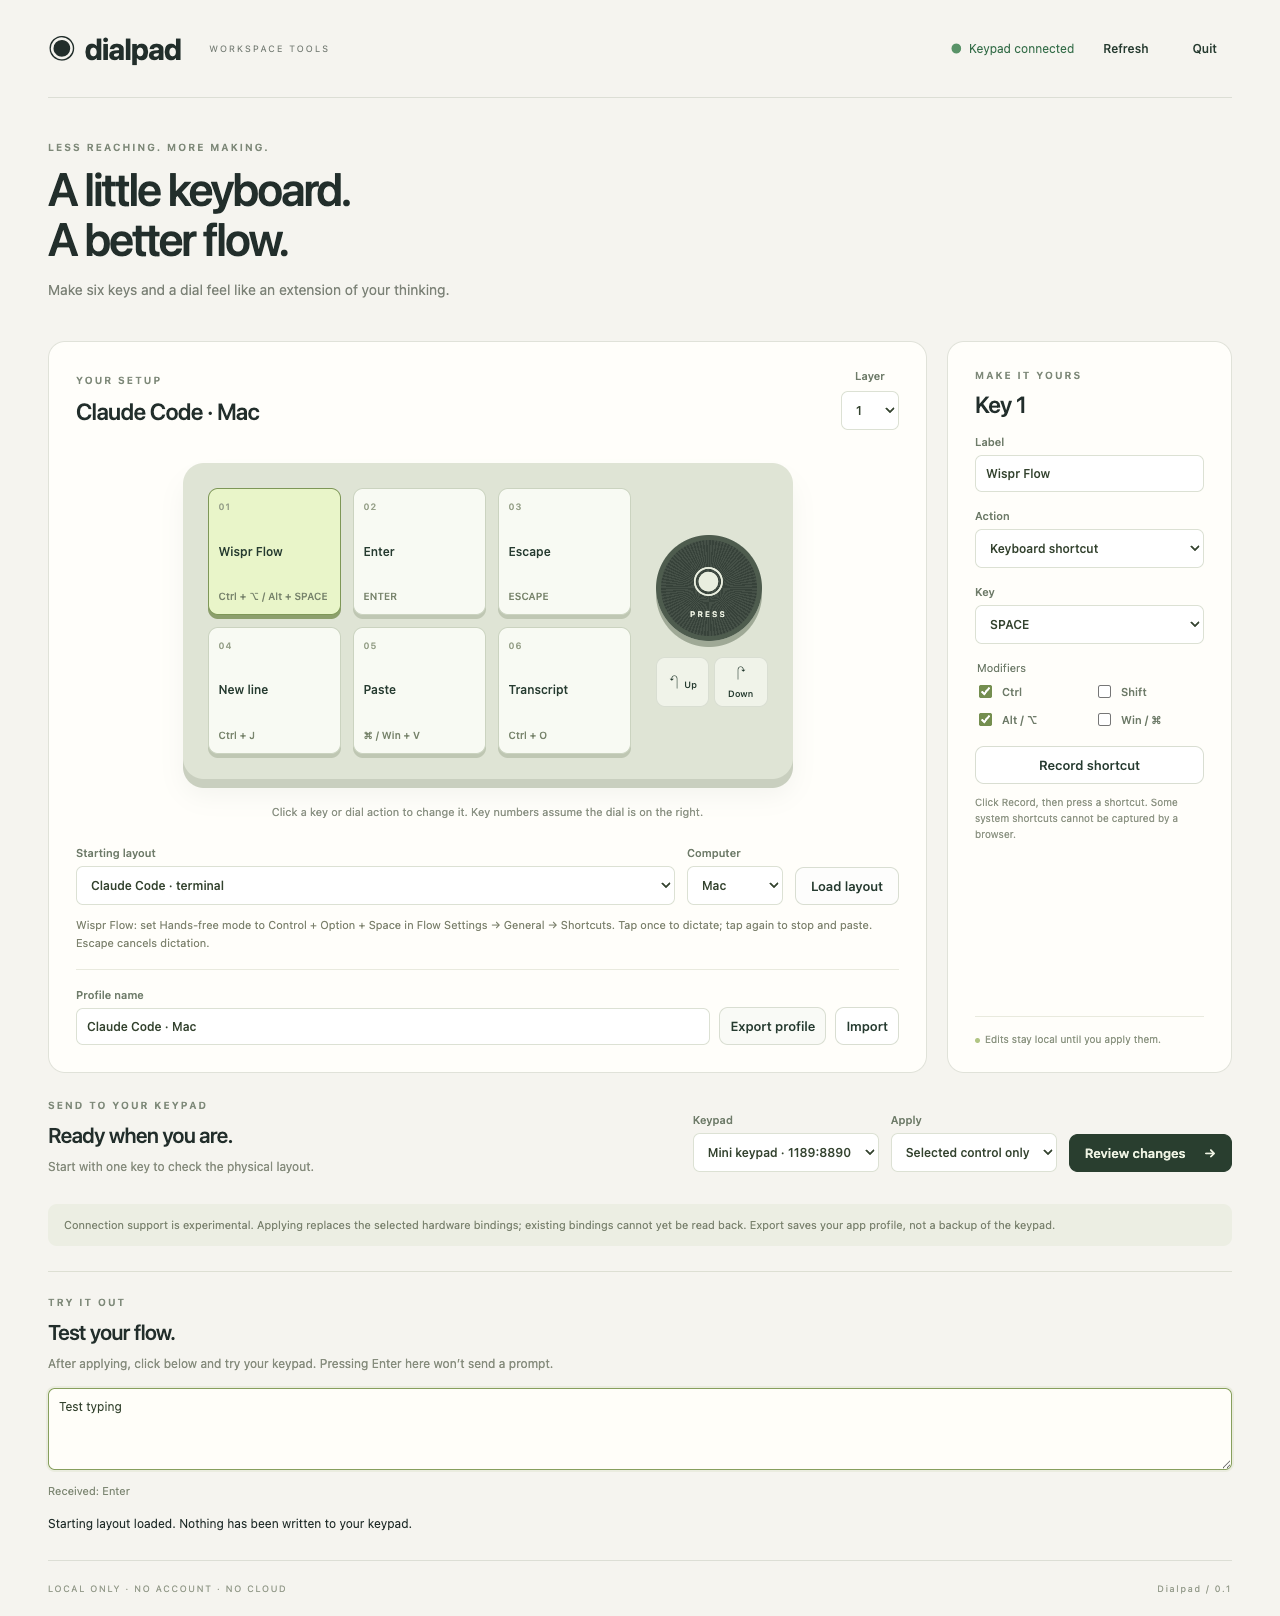
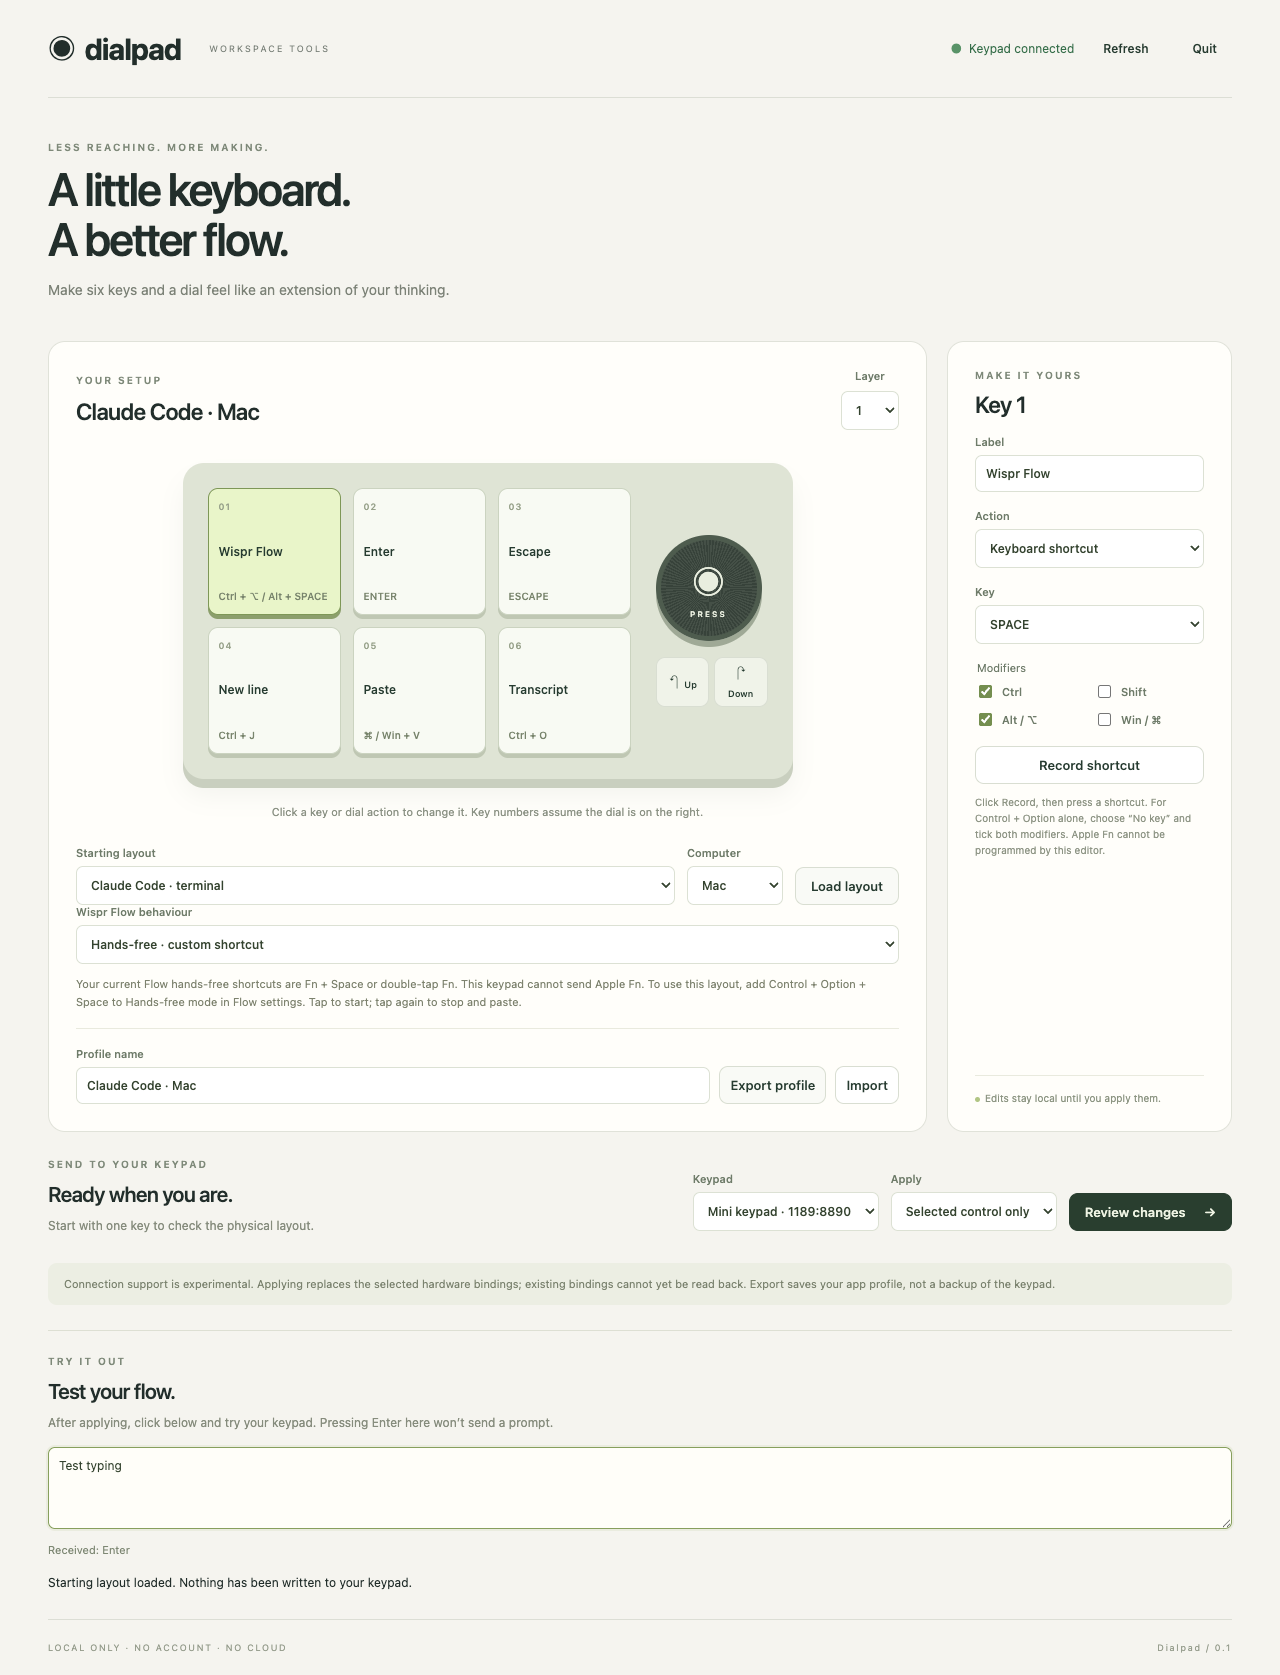
Support modifier-only Wispr push-to-talk and clarify Fn shortcuts

diff --git a/ui/app.js b/ui/app.js
@@ -7,25 +7,32 @@ const controls = ['key1','key2','key3','key4','key5','key6','dial_ccw','dial_pre
 const shortcut = (key, modifiers=[]) => ({type:'shortcut',key,modifiers});
 const names = {key1:'Key 1',key2:'Key 2',key3:'Key 3',key4:'Key 4',key5:'Key 5',key6:'Key 6',dial_ccw:'Dial · turn left',dial_press:'Dial · press',dial_cw:'Dial · turn right'};
 let selected='key1', profile, devices=[], preview=null, recording=false, busy=false, revision=0;
-const keyNames = [...'ABCDEFGHIJKLMNOPQRSTUVWXYZ',...'1234567890', 'ENTER','ESCAPE','TAB','SPACE','BACKSPACE','DELETE','UP','DOWN','LEFT','RIGHT','HOME','END','PAGEUP','PAGEDOWN','MINUS','EQUAL','LEFTBRACKET','RIGHTBRACKET','BACKSLASH','SEMICOLON','QUOTE','GRAVE','COMMA','DOT','SLASH',...Array.from({length:24},(_,i)=>`F${i+1}`)];
+const keyNames = ['NONE',...'ABCDEFGHIJKLMNOPQRSTUVWXYZ',...'1234567890', 'ENTER','ESCAPE','TAB','SPACE','BACKSPACE','DELETE','UP','DOWN','LEFT','RIGHT','HOME','END','PAGEUP','PAGEDOWN','MINUS','EQUAL','LEFTBRACKET','RIGHTBRACKET','BACKSLASH','SEMICOLON','QUOTE','GRAVE','COMMA','DOT','SLASH',...Array.from({length:24},(_,i)=>`F${i+1}`)];
 const actions = {mouse:['wheel_up','wheel_down','middle_click','left_click','right_click'],media:['volume_up','volume_down','mute','play_pause','next','previous','stop','brightness_up','brightness_down']};
 function option(value, text=value){return new Option(text,value);}
-keyNames.forEach(k=>$('key').add(option(k)));
+keyNames.forEach(k=>$('key').add(option(k,k==='NONE'?'No key · modifiers only':k)));
 function message(text,error=false){$('message').textContent=text;$('message').className=error?'error':'';}
 async function api(path,body){
  const response=await fetch('/api/'+path,{method:body?'POST':'GET',headers:{Authorization:'Bearer '+token,...(body?{'Content-Type':'application/json'}:{})},...(body?{body:JSON.stringify(body)}:{})});
  const result=await response.json();if(!response.ok)throw new Error(result.error||'Request failed.');return result;
 }
-function describe(action){if(action.type==='shortcut')return [...action.modifiers.map(m=>({cmd:'⌘ / Win',alt:'⌥ / Alt',ctrl:'Ctrl',shift:'Shift'}[m]||m)),action.key].join(' + ');return (action.action||action.type).replaceAll('_',' ');}
+function describe(action){if(action.type==='shortcut')return [...action.modifiers.map(m=>({cmd:'⌘ / Win',alt:'⌥ / Alt',ctrl:'Ctrl',shift:'Shift'}[m]||m)),...(action.key==='NONE'?[]:[action.key])].join(' + ');return (action.action||action.type).replaceAll('_',' ');}
 function preset(){
  const mac=$('platform').value==='mac',kind=$('preset').value;
  const labels={key1:'Wispr Flow',key2:'Enter',key3:'Escape',key4:'New line',key5:'Paste',key6:kind==='claude'?'Transcript':kind==='desktop'?'Review':'Tab',dial_ccw:'Scroll up',dial_press:'Tab',dial_cw:'Scroll down'};
  const bindings={key1:shortcut('SPACE',mac?['ctrl','alt']:['ctrl','cmd']),key2:shortcut('ENTER'),key3:shortcut('ESCAPE'),key4:shortcut('J',['ctrl']),key5:shortcut('V',mac?['cmd']:['ctrl','shift']),key6:kind==='claude'?shortcut('O',['ctrl']):shortcut('TAB'),dial_ccw:{type:'mouse',action:'wheel_up'},dial_press:shortcut('TAB'),dial_cw:{type:'mouse',action:'wheel_down'}};
  if(kind==='desktop'){bindings.key4=shortcut('ENTER',['shift']);bindings.key5=shortcut('V',mac?['cmd']:['ctrl']);bindings.key6=shortcut('G',['ctrl','shift']);}
  profile={version:1,name:(kind==='claude'?'Claude Code':kind==='codex'?'Codex terminal':'Codex desktop')+' · '+(mac?'Mac':'Windows'),layer:1,labels,bindings};
- $('preset-note').textContent=mac?'Wispr Flow: set Hands-free mode to Control + Option + Space in Flow Settings → General → Shortcuts. Tap once to dictate; tap again to stop and paste. Escape cancels dictation.':'Wispr Flow: Control + Windows + Space toggles Hands-free mode. Check this shortcut in Flow settings. Tap again to stop and paste; Escape cancels.';
+ configureFlow();
  render();message('Starting layout loaded. Nothing has been written to your keypad.');
 }
+function configureFlow(){
+ const mac=$('platform').value==='mac',ptt=$('flow-mode').value==='ptt';
+ profile.bindings.key1=shortcut(ptt?'NONE':'SPACE',mac?['ctrl','alt']:['ctrl','cmd']);
+ profile.labels.key1=ptt?'Flow · hold to talk':'Wispr Flow';
+ $('preset-note').textContent=mac?(ptt?'Your Flow push-to-talk shortcut is Control + Option (or Apple Fn). This key sends Control + Option only. Holding and releasing must be tested on this keypad before relying on push to talk.':'Your current Flow hands-free shortcuts are Fn + Space or double-tap Fn. This keypad cannot send Apple Fn. To use this layout, add Control + Option + Space to Hands-free mode in Flow settings. Tap to start; tap again to stop and paste.'):(ptt?'Verify Control + Windows is assigned to push to talk in Flow. Holding and releasing must be tested on this keypad.':'Verify Control + Windows + Space is assigned to Hands-free mode in Flow. Tap to start; tap again to stop and paste.');
+}
+$('flow-mode').onchange=()=>{configureFlow();render();message('Flow binding updated in the editor only.');};
 function invalidate(){preview=null;revision++;}
 function render(){
  $('profile-name').value=profile.name;$('profile-title').textContent=profile.name;$('layer').value=profile.layer;

diff --git a/ui/index.html b/ui/index.html
@@ -7,10 +7,11 @@
 <div class="keypad"><div class="keys" id="keys"></div><div class="dial-area"><button class="dial" id="dial-face" aria-label="Edit dial press"><span>◉</span><small>PRESS</small></button><div class="rotations"><button data-control="dial_ccw">↶ <span>Up</span></button><button data-control="dial_cw">↷ <span>Down</span></button></div></div></div>
 <p class="caption">Click a key or dial action to change it. Key numbers assume the dial is on the right.</p>
 <div class="setup-row"><label>Starting layout<select id="preset"><option value="claude">Claude Code · terminal</option><option value="codex">Codex · terminal</option><option value="desktop">Codex · desktop</option></select></label><label>Computer<select id="platform"><option value="mac">Mac</option><option value="windows">Windows</option></select></label><button id="load-preset">Load layout</button></div>
+<label>Wispr Flow behaviour<select id="flow-mode"><option value="handsfree">Hands-free · custom shortcut</option><option value="ptt">Push to talk · modifiers only</option></select></label>
 <p class="note" id="preset-note"></p>
 <div class="profile-tools"><label>Profile name<input id="profile-name" maxlength="80" value="Claude Code · Mac"></label><button id="export">Export profile</button><button id="import">Import</button><input id="file" type="file" accept="application/json,.json" hidden></div>
 </div>
-<aside class="editor"><p class="eyebrow">MAKE IT YOURS</p><h2 id="control-title">Key 1</h2><label>Label<input id="label" maxlength="32"></label><label>Action<select id="type"><option value="shortcut">Keyboard shortcut</option><option value="mouse">Mouse</option><option value="media">Media</option></select></label><div id="shortcut-fields"><label>Key<select id="key"></select></label><fieldset><legend>Modifiers</legend><div class="modifiers"><label><input type="checkbox" value="ctrl">Ctrl</label><label><input type="checkbox" value="shift">Shift</label><label><input type="checkbox" value="alt">Alt / ⌥</label><label><input type="checkbox" value="cmd">Win / ⌘</label></div></fieldset><button id="record" class="wide">Record shortcut</button><p class="hint">Click Record, then press a shortcut. Some system shortcuts cannot be captured by a browser.</p></div><label id="action-field" hidden>Function<select id="action"></select></label><div class="editor-footer"><span class="tiny-dot"></span>Edits stay local until you apply them.</div></aside></section>
+<aside class="editor"><p class="eyebrow">MAKE IT YOURS</p><h2 id="control-title">Key 1</h2><label>Label<input id="label" maxlength="32"></label><label>Action<select id="type"><option value="shortcut">Keyboard shortcut</option><option value="mouse">Mouse</option><option value="media">Media</option></select></label><div id="shortcut-fields"><label>Key<select id="key"></select></label><fieldset><legend>Modifiers</legend><div class="modifiers"><label><input type="checkbox" value="ctrl">Ctrl</label><label><input type="checkbox" value="shift">Shift</label><label><input type="checkbox" value="alt">Alt / ⌥</label><label><input type="checkbox" value="cmd">Win / ⌘</label></div></fieldset><button id="record" class="wide">Record shortcut</button><p class="hint">Click Record, then press a shortcut. For Control + Option alone, choose “No key” and tick both modifiers. Apple Fn cannot be programmed by this editor.</p></div><label id="action-field" hidden>Function<select id="action"></select></label><div class="editor-footer"><span class="tiny-dot"></span>Edits stay local until you apply them.</div></aside></section>
 <section class="apply-panel"><div><p class="eyebrow">SEND TO YOUR KEYPAD</p><h2>Ready when you are.</h2><p>Start with one key to check the physical layout.</p></div><div class="apply-controls"><label>Keypad<select id="device"><option value="">No keypad selected</option></select></label><label>Apply<select id="scope"><option value="selected">Selected control only</option><option value="all">All six keys + dial</option></select></label><button id="preview" class="primary">Review changes <span>→</span></button></div></section>
 <div class="notice">Connection support is experimental. Applying replaces the selected hardware bindings; existing bindings cannot yet be read back. Export saves your app profile, not a backup of the keypad.</div>
 <section class="tester"><div><p class="eyebrow">TRY IT OUT</p><h2>Test your flow.</h2><p>After applying, click below and try your keypad. Pressing Enter here won’t send a prompt.</p></div><textarea id="test-input" placeholder="Click here, then try dictation, Enter, Escape, and scrolling…" rows="4"></textarea><output id="test-event">Waiting for a key in this test area.</output></section>

diff --git a/core/protocol.py b/core/protocol.py
@@ -15,6 +15,7 @@ CONTROL_IDS = {**{f"key{i}": i for i in range(1, 7)},
 MODIFIERS = {"ctrl": 1, "shift": 2, "alt": 4, "cmd": 8, "win": 8,
              "rctrl": 16, "rshift": 32, "ralt": 64, "rcmd": 128, "rwin": 128}
 KEY_CODES = {chr(65+i): 4+i for i in range(26)}
+KEY_CODES['NONE'] = 0  # Modifier-only chord; not the Apple-specific Fn key.
 KEY_CODES.update({str((i+1) % 10): 30+i for i in range(10)})
 KEY_CODES.update(dict(zip([
     "ENTER", "ESCAPE", "BACKSPACE", "TAB", "SPACE", "MINUS", "EQUAL",
@@ -91,7 +92,10 @@ def encode_binding(control: str, action: dict, layer: int = 1) -> list[bytes]:
             key = step.get("key")
             if not isinstance(key, str) or key.upper() not in KEY_CODES:
                 raise ValueError(f"Unknown keyboard key: {key!r}")
-            chords.append((_modifiers(step.get("modifiers", [])), KEY_CODES[key.upper()]))
+            modifiers = _modifiers(step.get("modifiers", []))
+            if key.upper() == 'NONE' and not modifiers:
+                raise ValueError('A modifier-only shortcut needs at least one modifier')
+            chords.append((modifiers, KEY_CODES[key.upper()]))
         for index, (modifiers, code) in enumerate([(0, 0)] + chords):
             packets.append(_packet(3, key_id, layer << 4 | 1, len(chords), index, modifiers, code))
     elif kind == "media":

diff --git a/tests/ui_smoke.py b/tests/ui_smoke.py
@@ -20,6 +20,15 @@ try:
         expect(page.locator('#connection')).not_to_have_text('Checking keypad…')
         assert page.locator('.key').count()==6
         assert page.locator('#connection').inner_text()=='Keypad connected'
+        page.locator('#flow-mode').select_option('ptt')
+        assert page.locator('#key').input_value()=='NONE'
+        assert page.locator('[data-control="key1"] .key-shortcut').inner_text()=='Ctrl + ⌥ / Alt'
+        page.locator('#preview').click()
+        page.locator('#review').wait_for(state='visible')
+        assert 'Key 1  →  Ctrl + ⌥ / Alt' in page.locator('#review-content').text_content()
+        assert 'NONE' not in page.locator('#review-content').text_content()
+        page.get_by_role('button',name='Cancel',exact=True).click()
+        page.locator('#flow-mode').select_option('handsfree')
         page.locator('[data-control="key2"]').click()
         assert page.locator('#key').input_value()=='ENTER'
         page.locator('#preview').click()

diff --git a/tests/test_protocol.py b/tests/test_protocol.py
@@ -8,6 +8,12 @@ def fixture(hex_string):
 
 
 class ProtocolTests(unittest.TestCase):
+    def test_modifier_only_wispr_chord(self):
+        reports = encode_binding('key1', {'type': 'shortcut', 'key': 'NONE', 'modifiers': ['ctrl', 'alt']})
+        self.assertEqual(reports[2], fixture('03 01 11 01 01 05 00'))
+        with self.assertRaises(ValueError):
+            encode_binding('key1', {'type': 'shortcut', 'key': 'NONE', 'modifiers': []})
+
     def test_upstream_ctrl_a_fixture(self):
         self.assertEqual(encode_binding("key1", {"type": "shortcut", "key": "A", "modifiers": ["ctrl"]}), [
             fixture("03 fe 01 01 01"), fixture("03 01 11 01"),

diff --git a/README.md b/README.md
@@ -12,8 +12,8 @@ The source version runs with Python 3.10+: `python3 app.py`. macOS source develo
 
 1. Plug the keypad in by USB. Click Refresh if needed.
 2. Load the Claude Code terminal, Codex terminal, or Codex desktop starting layout, and choose Mac or Windows. Loading a layout edits the app only.
-3. Configure your dictation shortcut: all starter layouts use **Wispr Flow Hands-free mode**. On Mac, assign **Control + Option + Space** in Flow Settings → General → Shortcuts → Hands-free mode. On Windows the suggested default is **Control + Windows + Space**; verify it in Flow settings. Tap once to start, tap again to stop and paste. Escape cancels and discards a dictation in progress. Dialpad triggers Flow; it does not transcribe audio itself.
-4. Click a key and choose its action or record a shortcut. The dial supports real mouse-wheel up/down and an independent press action.
+3. Configure your dictation shortcut: choose **Wispr Flow behaviour** in the editor. **Push to talk** sends **Control + Option** on Mac, with no extra key; physical hold/release behaviour still needs testing. Your existing Mac hands-free shortcuts are **Fn + Space** or **double-tap Fn**, which this editor cannot encode. **Hands-free · custom shortcut** remains available: On Mac, assign **Control + Option + Space** in Flow Settings → General → Shortcuts → Hands-free mode. On Windows the suggested default is **Control + Windows + Space**; verify it in Flow settings. Tap once to start, tap again to stop and paste. Escape cancels and discards a dictation in progress. Dialpad triggers Flow; it does not transcribe audio itself.
+4. Click a key and choose its action or record a shortcut. For modifier-only shortcuts, select **No key · modifiers only** and tick the modifiers. The dial supports real mouse-wheel up/down and an independent press action.
 5. Start with **Selected control only**, click **Review changes**, verify the proposed binding, then **Apply to keypad**. Test it in the scratch area and your coding app. Key positions and wheel direction need a physical check.
 6. Export your profile to keep a copy. Import restores the editor settings; Apply writes them to the keypad.
 

diff --git a/research/KEY-LAYOUT.md b/research/KEY-LAYOUT.md
@@ -24,7 +24,9 @@ The paste chords above are suggested host conventions, not Claude commands. Veri
 
 ## Wispr Flow setup — selected by the user
 
-Use a tap-to-toggle hands-free mapping on Key 1. Press once to listen, then again to finish and paste. Escape cancels the recording without inserting its transcript. Keep Enter as its own key so the user can inspect dictated text before sending. Flow's documented defaults are Fn+Space on Mac and Ctrl+Win+Space on Windows; Macs without Fn have the Ctrl+Option+Space fallback. [Wispr hands-free](https://docs.wisprflow.ai/articles/6391241694-use-flow-hands-free)
+User correction: their existing Mac push-to-talk shortcuts are Fn or Control+Option; hands-free uses Fn+Space or double-tap Fn. The editor now offers Control+Option-only push-to-talk and a clearly labelled custom hands-free alternative. Hold/release remains unverified on this hardware.
+
+For the optional custom mapping, use a tap-to-toggle hands-free mapping on Key 1. Press once to listen, then again to finish and paste. Escape cancels the recording without inserting its transcript. Keep Enter as its own key so the user can inspect dictated text before sending. Flow's documented defaults are Fn+Space on Mac and Ctrl+Win+Space on Windows; Macs without Fn have the Ctrl+Option+Space fallback. [Wispr hands-free](https://docs.wisprflow.ai/articles/6391241694-use-flow-hands-free)
 
 On this Mac, add **Ctrl+Option+Space** in Flow → Settings → General → Shortcuts → Change → Hands-free mode. Retain the laptop Fn shortcut if wanted. On Windows, verify **Ctrl+Win+Space** in the same settings. These are ordinary modifier-plus-Space combinations for the keypad; Apple Fn is not an available action in our standard HID shortcut encoding. Use the left-hand modifiers consistently when recording and programming.
 

diff --git a/research/VALIDATION.md b/research/VALIDATION.md
@@ -11,3 +11,7 @@
 Still unverified: physical programming outcome and persistent storage on this firmware; physical key ordering; dial direction under host scroll settings; actual Wispr insertion in the user's terminal; Windows packaging and HID behavior. A build workflow is supplied for Windows, but no Windows executable or Windows test result is claimed.
 
 Screenshot: `ui-preview.png`. Protocol and shortcut sources are recorded in the adjacent reports and `core/` notes.
+
+## Shortcut correction follow-up
+
+Added modifier-only Control+Option encoding and explicit push-to-talk/custom hands-free selection after the user's shortcut correction. 23 unit tests pass. Rebuilt Mac app passed the browser smoke test, including modifier-only editing and review text. No hardware writes. Physical hold/release remains unverified.

diff --git a/core/PROTOCOL.md b/core/PROTOCOL.md
@@ -48,3 +48,5 @@ is provided here.
 
 Consulted 14 September 2026. Protocol adaptation retains the upstream MIT
 notice in `THIRD_PARTY_LICENSE.txt`.
+
+Modifier-only shortcuts use `key: "NONE"` with a nonempty modifier list. Control+Option uses modifier mask 0x05 and keycode 0x00, as supported by the upstream optional-key encoding. This does not prove physical key-hold behavior or emulate Apple Fn.
